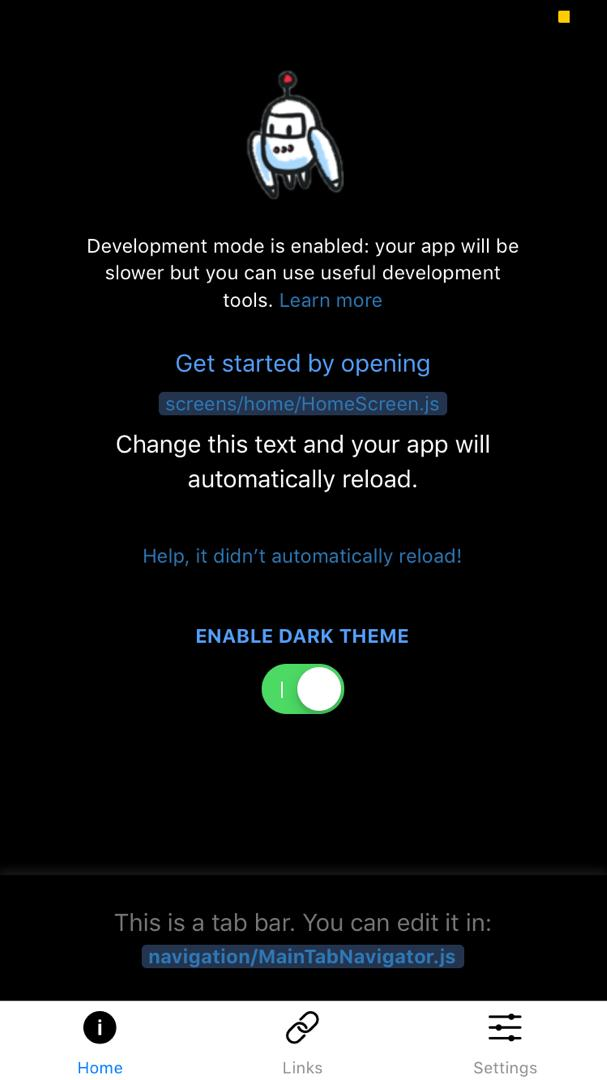
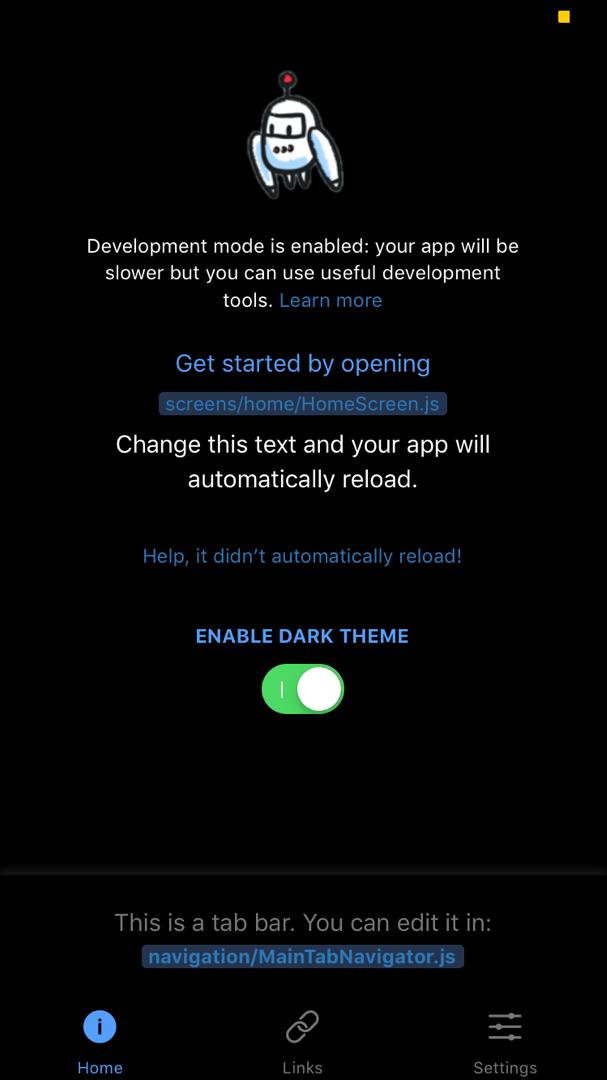
Fixed dark theme bottom navigation tab

Changed region(s): [[0.0, 0.9167, 1.0, 1.0]]

diff --git a/navigation/MainNavigator.js b/navigation/MainNavigator.js
@@ -5,6 +5,7 @@ import { createStackNavigator, createBottomTabNavigator } from 'react-navigation
 
 import HomeScreen from '../screens/home/HomeScreen';
 import LinksScreen from '../screens/links/LinksScreen';
+import { lightTheme, darkTheme } from '../config/theme/Themes';
 import SettingsScreen from '../screens/settings/SettingsScreen';
 
 const config = Platform.select({
@@ -19,19 +20,26 @@ const HomeStack = createStackNavigator(
 	config
 );
 
-HomeStack.navigationOptions = {
-	tabBarLabel: 'Home',
-	tabBarIcon: ({ focused }) => (
-		<Ionicons
-			size={25}
-			focused={focused}
-			name={
-				Platform.OS === 'ios'
+HomeStack.navigationOptions = ({ theme }) => {
+	return {
+		tabBarLabel: 'Home',
+		tabBarIcon: ({ focused }) => (
+			<Ionicons
+				size={25}
+				focused={focused}
+				name={Platform.OS === 'ios'
 					? `ios-information-circle${focused ? '' : '-outline'}`
 					: 'md-information-circle'
-			}
-		/>
-	),
+				}
+				color={focused
+					? theme === 'dark'
+						? darkTheme.colors.primary
+						: lightTheme.colors.primary
+					: theme === 'dark'
+						? darkTheme.colors.placeholder
+						: lightTheme.colors.placeholder} />
+		)
+	}
 };
 
 HomeStack.path = '';
@@ -43,17 +51,25 @@ const LinksStack = createStackNavigator(
 	config
 );
 
-LinksStack.navigationOptions = {
-	tabBarLabel: 'Links',
-	tabBarIcon: ({ focused }) => (
-		<Ionicons
-			size={25}
-			focused={focused}
-			name={
-				Platform.OS === 'ios'
+LinksStack.navigationOptions = ({ theme }) => {
+	return {
+		tabBarLabel: 'Links',
+		tabBarIcon: ({ focused }) => (
+			<Ionicons
+				size={25}
+				focused={focused}
+				name={Platform.OS === 'ios'
 					? 'ios-link'
-					: 'md-link'} />
-	),
+					: 'md-link'}
+				color={focused
+					? theme === 'dark'
+						? darkTheme.colors.primary
+						: lightTheme.colors.primary
+					: theme === 'dark'
+						? darkTheme.colors.placeholder
+						: lightTheme.colors.placeholder} />
+		)
+	}
 };
 
 LinksStack.path = '';
@@ -65,26 +81,76 @@ const SettingsStack = createStackNavigator(
 	config
 );
 
-SettingsStack.navigationOptions = {
-	tabBarLabel: 'Settings',
-	tabBarIcon: ({ focused }) => (
-		<Ionicons
-			size={25}
-			focused={focused}
-			name={
-				Platform.OS === 'ios'
+SettingsStack.navigationOptions = ({ theme }) => {
+	return {
+		tabBarLabel: 'Settings',
+		tabBarIcon: ({ focused }) => (
+			<Ionicons
+				size={25}
+				focused={focused}
+				name={Platform.OS === 'ios'
 					? 'ios-options'
-					: 'md-options'} />
-	),
+					: 'md-options'}
+				color={focused
+					? theme === 'dark'
+						? darkTheme.colors.primary
+						: lightTheme.colors.primary
+					: theme === 'dark'
+						? darkTheme.colors.placeholder
+						: lightTheme.colors.placeholder} />
+		)
+	}
 };
 
 SettingsStack.path = '';
 
-const tabNavigator = createBottomTabNavigator({
-	HomeStack,
-	LinksStack,
-	SettingsStack,
-});
+const tabNavigator = createBottomTabNavigator(
+	{
+		HomeStack,
+		LinksStack,
+		SettingsStack,
+	},
+	{
+		initialRouteName: 'HomeStack',
+		tabBarOptions: {
+			pressColor: {
+				dark: darkTheme.colors.primary,
+				light: lightTheme.colors.primary
+			},
+			activeTintColor: {
+				dark: darkTheme.colors.primary,
+				light: lightTheme.colors.primary
+			},
+			activeBackgroundColor: {
+				dark: darkTheme.colors.background,
+				light: lightTheme.colors.background
+			},
+			inactiveTintColor: {
+				dark: darkTheme.colors.placeholder,
+				light: lightTheme.colors.placeholder
+			},
+			inactiveBackgroundColor: {
+				dark: darkTheme.colors.background,
+				light: lightTheme.colors.background
+			},
+			showLabel: true,
+			showIcon: true,
+			allowFontScaling: true,
+			style: {
+				shadowRadius: 5,
+				borderTopWidth: 0,
+				shadowOpacity: 0.3,
+				shadowColor: {
+					dark: darkTheme.colors.text,
+					light: lightTheme.colors.text
+				},
+				shadowOffset: {
+					width: 1,
+					height: 1
+				}
+			}
+		}
+	});
 
 tabNavigator.path = '';
 

diff --git a/navigation/RootApplication.js b/navigation/RootApplication.js
@@ -34,7 +34,7 @@ class RootNavigator extends React.Component {
         };
 
         return (
-            <AppNavigator />
+            <AppNavigator theme={this.props.theme.dark ? 'dark' : 'light'} />
         );
     };
 };
